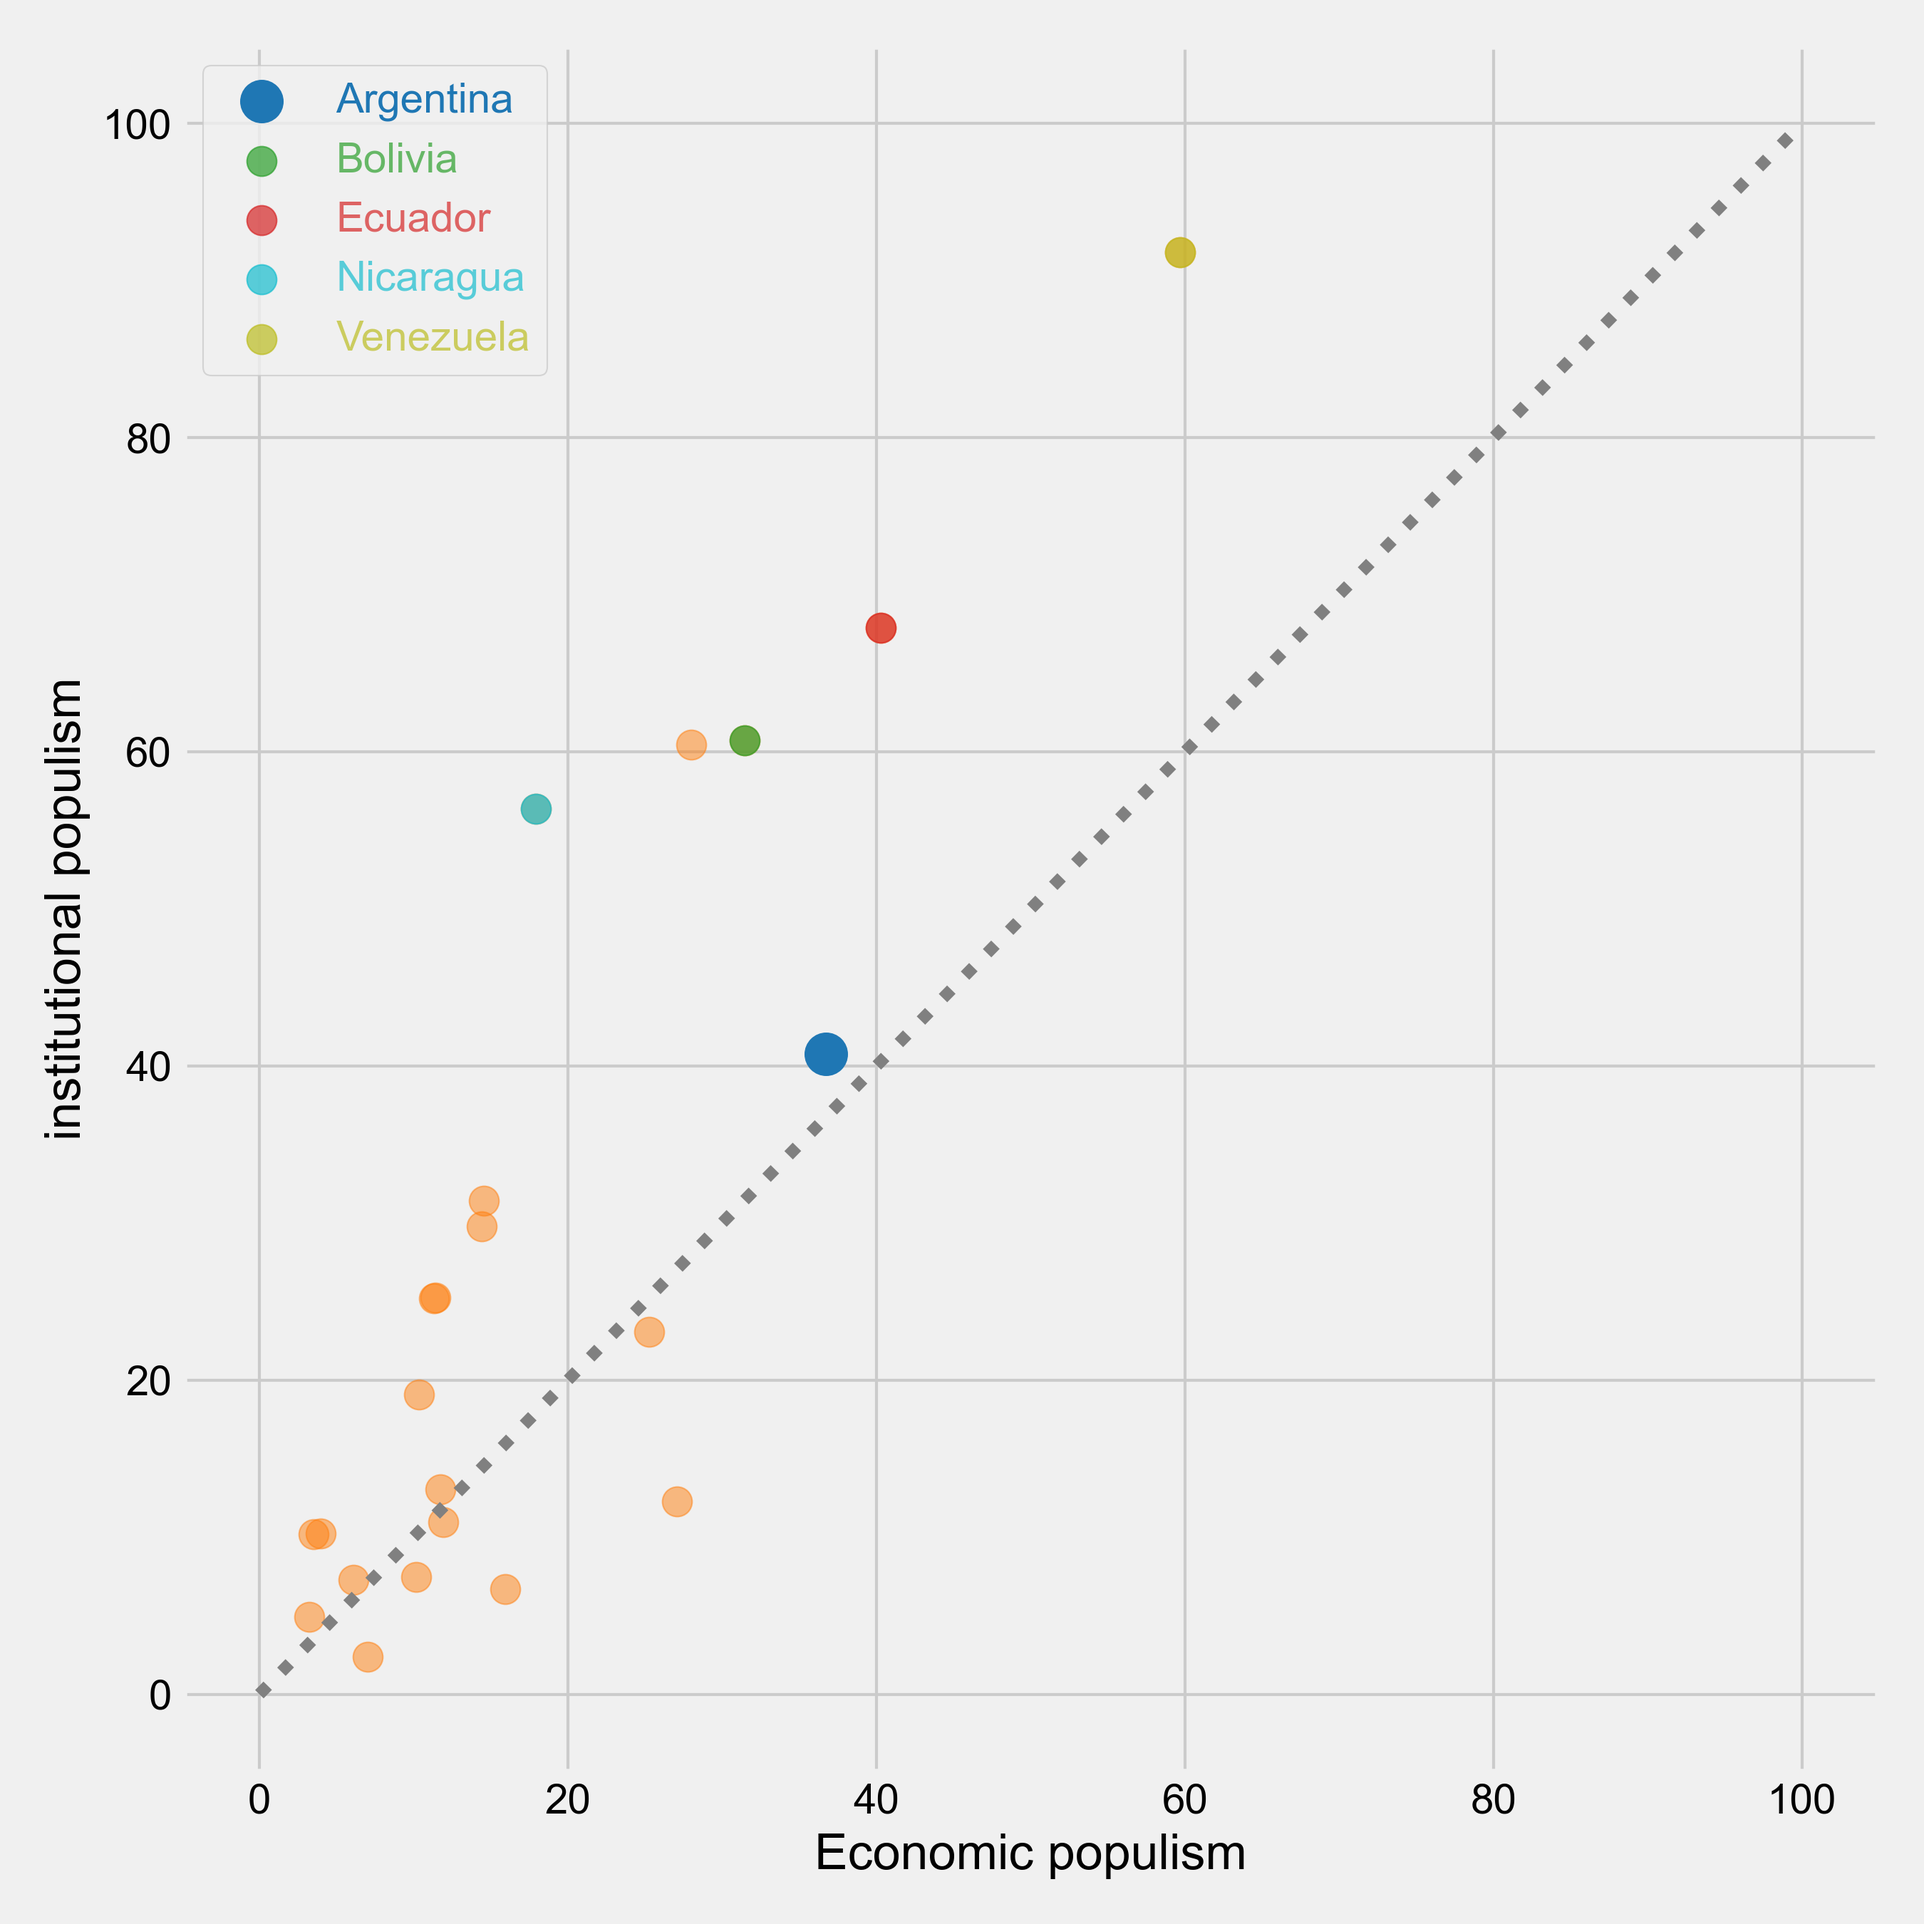
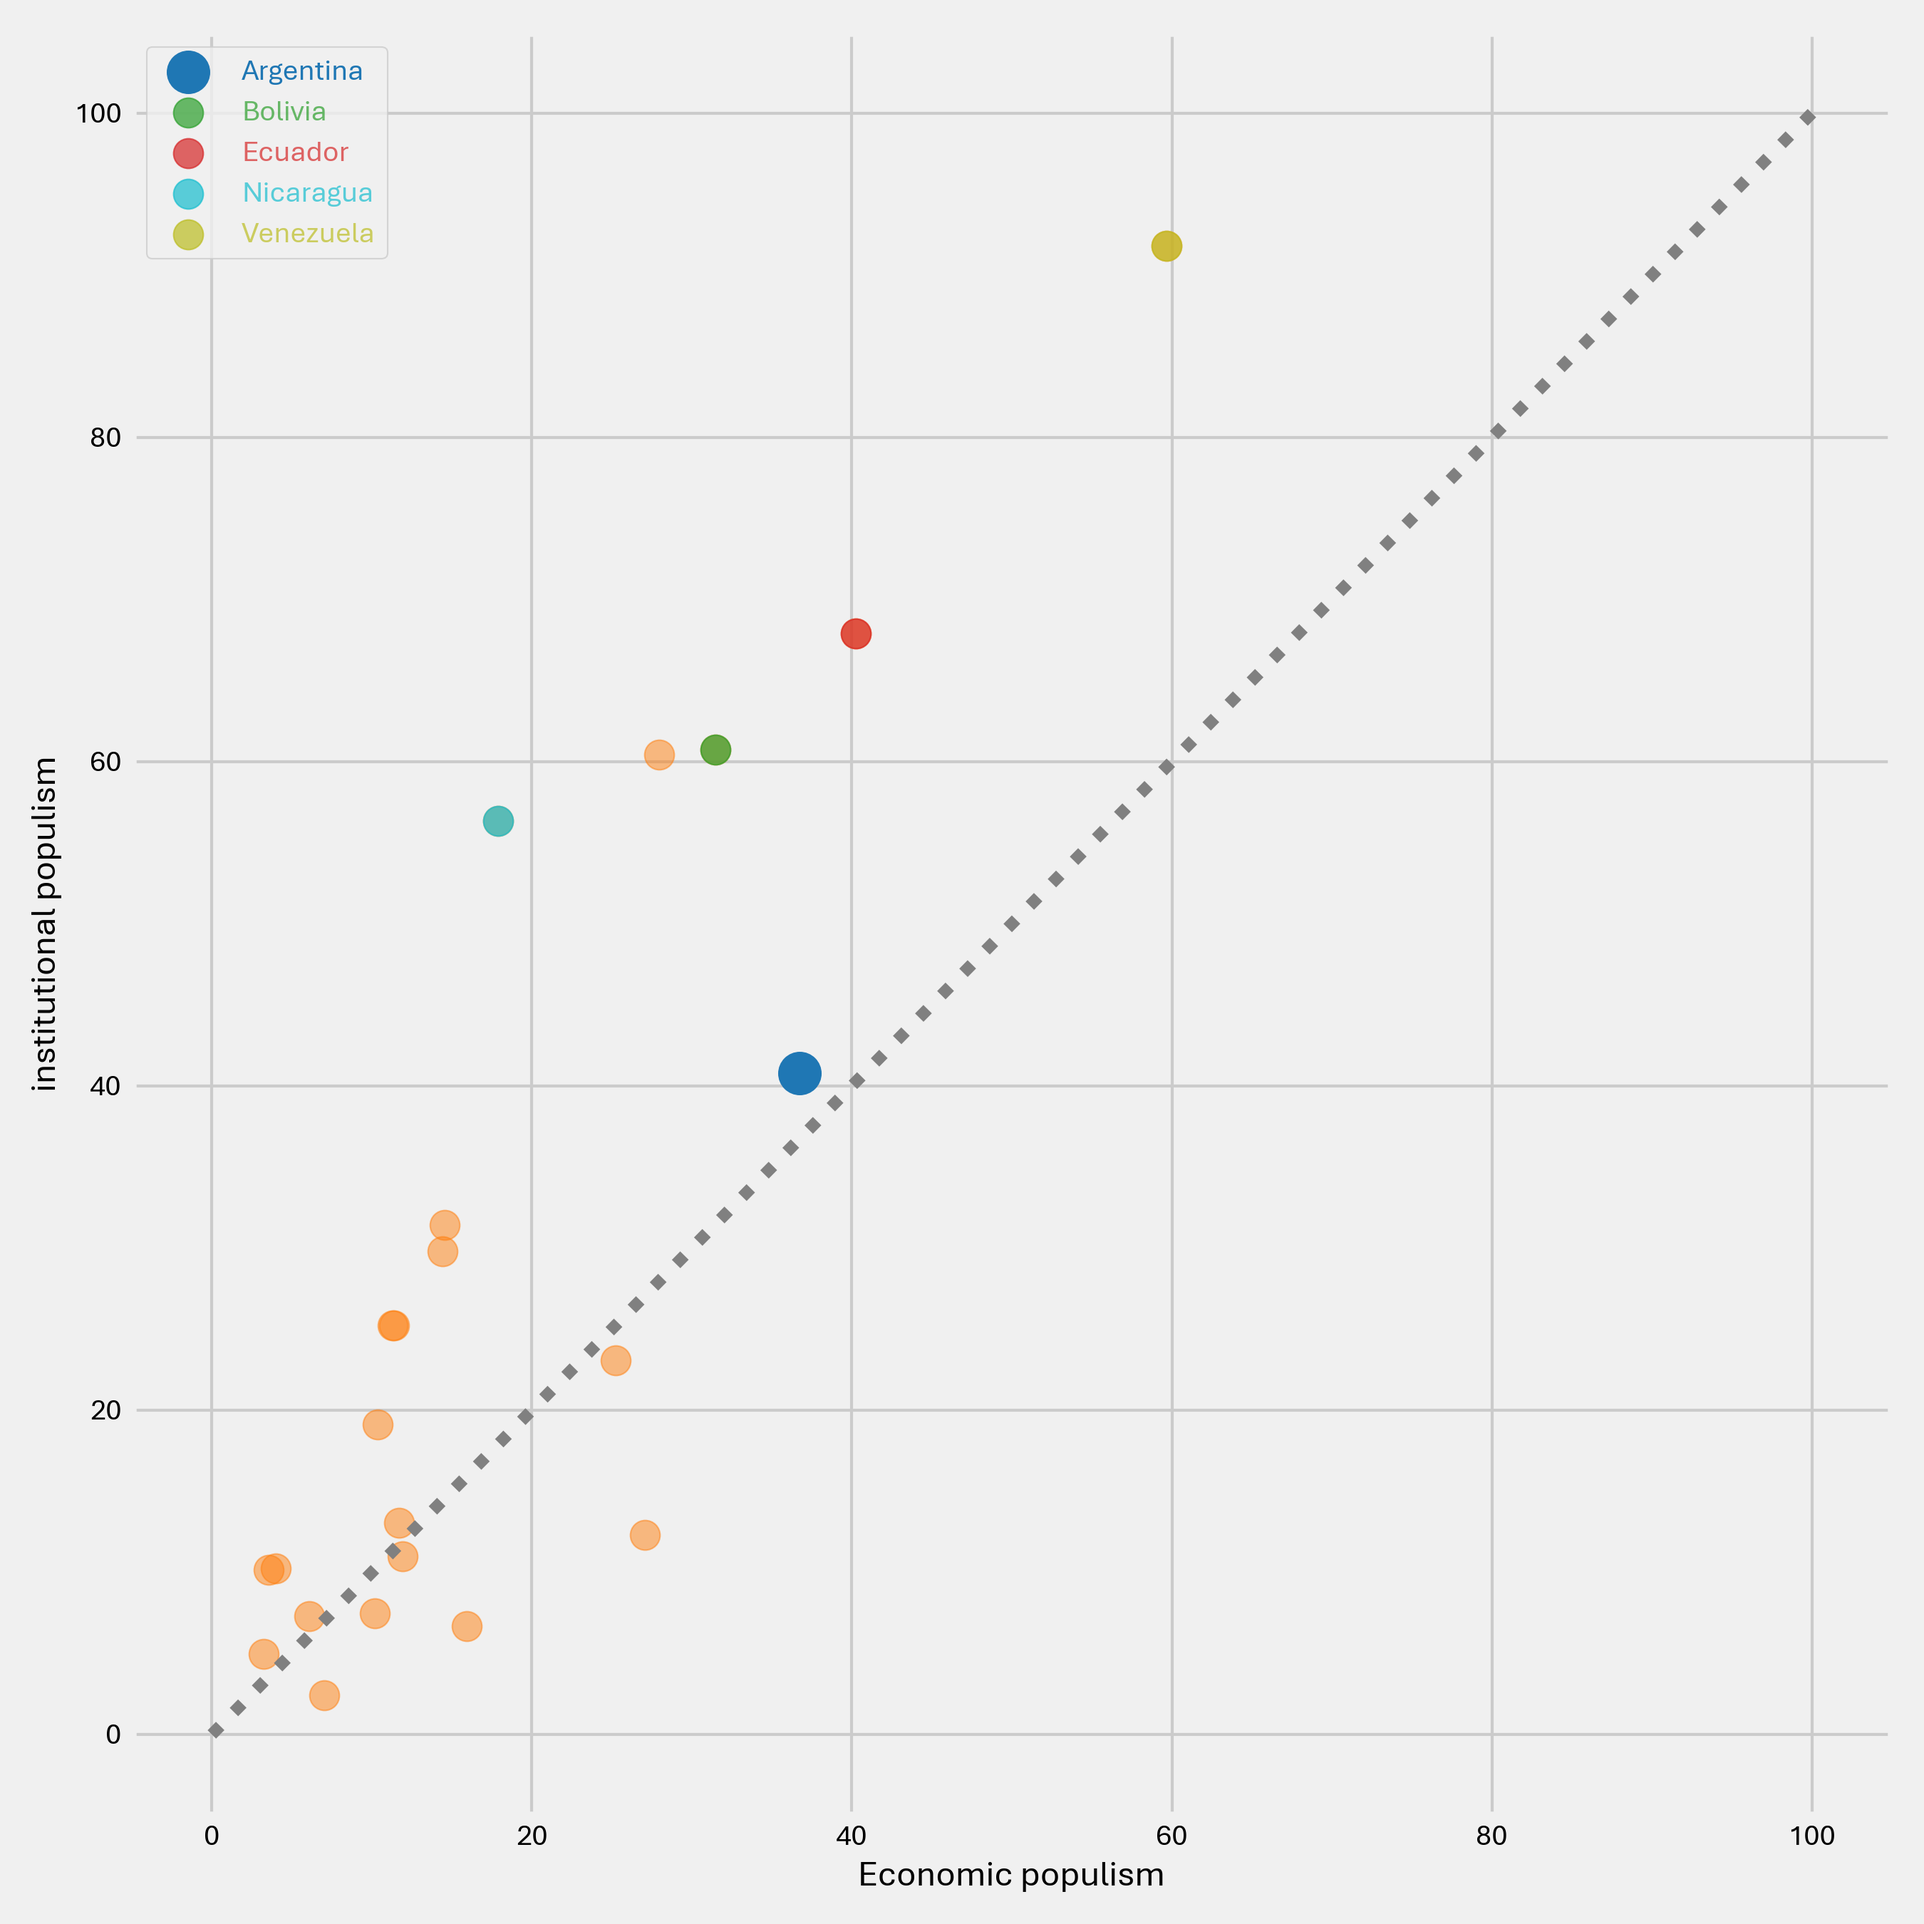
Code clean up.

diff --git a/index_generator.py b/index_generator.py
@@ -385,7 +385,7 @@ INDEX['EP_3'] = EP3
 INDEX['EP_4'] = EP4
 INDEX['EP']   = INDEX['VPARTY'] * (EP1 + EP2 + EP3 + EP4)/4
 
-INDEX['EP_RANK'] = INDEX.groupby('YEAR')['EP'].rank(ascending=False)
+INDEX['EP_RANK']       = INDEX.groupby('YEAR')['EP'].rank(ascending=False)
 INDEX['EP_PERCENTILE'] = INDEX.groupby('YEAR')['EP'].rank(pct=True)
 
 #### Clean up
@@ -448,7 +448,7 @@ extension_2 = '.xlsx'
 extension_3 = '.html' 
 extension_4 = '.dta'
 
-INDEX.to_csv(file_name + extension_1, encoding='utf-8')
+INDEX.to_csv(file_name + extension_1  , encoding='utf-8')
 INDEX.to_excel(file_name + extension_2, index=False)
 INDEX.to_html(file_name + extension_3)
 INDEX.to_stata(file_name + extension_4)
@@ -459,187 +459,10 @@ del replacements
 
 
 # ============================================================================|
-# %% INDEX | PLOTS FOR INITIAL CHECK
-
-#### Load data
-FILE  = "index_2023.xlsx"
-FILE  = pd.ExcelFile(FILE)
-
-INDEX = pd.read_excel(FILE)
-INDEX = INDEX[INDEX['YEAR'] != 2000]  # Year 2001 is missing
-INDEX = INDEX[INDEX['YEAR'] != 2020]  # Year 2020 is missing
-
-countries = INDEX['COUNTRY'].unique()
-region    = INDEX['REGION'].unique()
-years     = INDEX['YEAR'].unique()
-
-#### Plot settings
-print(plt.style.available)
-plt.style.use('seaborn-v0_8-bright')
-
-fig_landscape = (16,9)
-fig_square    = (9, 9)
-
-#### TS: Argentina
-y  = INDEX[INDEX['ISO3']=='ARG']
-y1 = y['IP']
-y2 = y['EP']
-y3 = y['POPULISM']
-t  = y['YEAR']
-
-fig, ax = plt.subplots()
-ax.set_title("Argentina")
-ax.plot(t, y1, label='IP')
-ax.plot(t, y2, label='EP')
-ax.plot(t, y3, label='Populism')
-ax.axvspan(2006, 2015, color='gray', alpha=0.25)
-ax.set_ylim(0, 100)
-plt.legend()
-plt.tight_layout()
-plt.show()
-
-#### TS: Bolivia
-y  = INDEX[INDEX['ISO3']=='BOL']
-y1 = y['IP']
-y2 = y['EP']
-y3 = y['POPULISM']
-t  = y['YEAR']
-
-fig, ax = plt.subplots()
-ax.set_title("Bolivia")
-ax.plot(t, y1, label='IP')
-ax.plot(t, y2, label='EP')
-ax.plot(t, y3, label='Populism')
-ax.axvspan(2006, 2019, color='gray', alpha=0.25)
-ax.set_ylim(0, 100)
-plt.legend()
-plt.tight_layout()
-plt.show()
-
-#### TS: Ecuador
-y  = INDEX[INDEX['ISO3']=='ECU']
-y1 = y['IP']
-y2 = y['EP']
-y3 = y['POPULISM']
-t  = y['YEAR']
-
-fig, ax = plt.subplots()
-ax.set_title("Ecuador")
-ax.plot(t, y1, label='IP')
-ax.plot(t, y2, label='EP')
-ax.plot(t, y3, label='Populism')
-ax.axvspan(2007, 2016, color='gray', alpha=0.25)
-ax.set_ylim(0, 100)
-plt.legend()
-plt.tight_layout()
-plt.show()
-
-#### TS: Nicaragua
-y  = INDEX[INDEX['ISO3']=='NIC']
-y1 = y['IP']
-y2 = y['EP']
-y3 = y['POPULISM']
-t  = y['YEAR']
-
-fig, ax = plt.subplots()
-ax.set_title("Nicaragua")
-ax.plot(t, y1, label='IP')
-ax.plot(t, y2, label='EP')
-ax.plot(t, y3, label='Populism')
-ax.axvspan(2007, 2022, color='gray', alpha=0.25)
-ax.set_ylim(0, 100)
-plt.legend()
-plt.tight_layout()
-plt.show()
-
-#### TS: Venezuela
-y  = INDEX[INDEX['ISO3']=='VEN']
-y1 = y['IP']
-y2 = y['EP']
-y3 = y['POPULISM']
-t  = y['YEAR']
-
-fig, ax = plt.subplots()
-ax.set_title("Venezuela")
-ax.plot(t, y1, label='IP')
-ax.plot(t, y2, label='EP')
-ax.plot(t, y3, label='Populism')
-ax.axvspan(1999, 2020, color='gray', alpha=0.25)
-ax.set_ylim(0, 100)
-plt.legend()
-plt.tight_layout()
-plt.show()
-
-#### TS: Chile
-y  = INDEX[INDEX['ISO3']=='CHL']
-y1 = y['IP']
-y2 = y['EP']
-y3 = y['POPULISM']
-t  = y['YEAR']
-
-fig, ax = plt.subplots()
-ax.set_title("Chile")
-ax.plot(t, y1, label='IP')
-ax.plot(t, y2, label='EP')
-ax.plot(t, y3, label='Populism')
-plt.axvspan(2005, 2009, color='gray', alpha=0.25)
-plt.axvspan(2014, 2017, color='gray', alpha=0.25)
-ax.set_ylim(0, 100)
-plt.legend()
-plt.tight_layout()
-plt.show()
-
-#### TS: Colombia
-y  = INDEX[INDEX['ISO3']=='COL']
-y1 = y['IP']
-y2 = y['EP']
-y3 = y['POPULISM']
-t  = y['YEAR']
-
-fig, ax = plt.subplots()
-ax.set_title("Colombia")
-ax.plot(t, y1, label='IP')
-ax.plot(t, y2, label='EP')
-ax.plot(t, y3, label='Populism')
-ax.set_ylim(0, 100)
-plt.legend()
-plt.tight_layout()
-plt.show()
-
-#### Scatter: By Year
-
-ARG = INDEX[INDEX['ISO3'] == "ARG"]
-BOL = INDEX[INDEX['ISO3'] == "BOL"]
-ECU = INDEX[INDEX['ISO3'] == "ECU"]
-NIC = INDEX[INDEX['ISO3'] == "NIC"]
-VEN = INDEX[INDEX['ISO3'] == "VEN"]
-
-axis_range = [0, 100, 0, 100]
-LABELS=['Argentina', 'Bolivia', 'Ecuador', 'Nicaragua', 'Venezuela']
-TITLE = "Populism transition"
-
-fig, ax = plt.subplots(figsize=fig_square)
-plt.plot([0,100],[0,100], color='gray', ls=':')
-plt.plot(ARG['EP'],ARG['IP'],'o-',markersize=10,color='tab:blue' ,label=LABELS[0])
-plt.plot(BOL['EP'],BOL['IP'],'o-',markersize=10,color='tab:green',label=LABELS[1])
-plt.plot(ECU['EP'],ECU['IP'],'o-',markersize=10,color='tab:red'  ,label=LABELS[2])
-plt.plot(NIC['EP'],NIC['IP'],'o-',markersize=10,color='tab:cyan' ,label=LABELS[3])
-plt.plot(VEN['EP'],VEN['IP'],'o-',markersize=10,color='tab:olive',label=LABELS[4])
-plt.xlabel("Economic populism")
-plt.ylabel("Institutional populism")
-plt.axis_range=axis_range
-plt.tight_layout()
-plt.show()
-
-#### Clean up
-del ax, fig, t, y, y1, y2, y3
-
-
-# ============================================================================|
-# %% SAMPLE CODES
+# %% THE END
 
 """
-#### Rearrange pandas' columns
+#### Sample Code: Rearrange pandas' columns
 import pandas as pd
 
 # Sample DataFrame
@@ -663,7 +486,7 @@ df = df[desired_order]
 print("\nDataFrame with Rearranged Columns:")
 print(df)
 
-#### Ranking
+#### Sample Code: Ranking
 # Rank data within each year group in ascending order with the
 # 'min' tie-breaking method
 df['Rank'] = df.groupby('Year')['Value'].rank(ascending=True, method='min')

diff --git a/visualizations.py b/visualizations.py
@@ -60,12 +60,15 @@ plt.style.use('fivethirtyeight')
 
 
 #### Parameters
+'''
 font_dir = ['C:/Windows/Fonts']
 for font in fm.findSystemFonts(font_dir):
     fm.fontManager.addfont(font)
+'''
 
 available_fonts = sorted([f.name for f in fm.fontManager.ttflist])
-mpl.rcParams["font.family"] = "Arial"
+mpl.rcParams["font.family"] = "Aptos"
+mpl.rcParams["font.size"]   = 12
 mpl.rcParams["figure.dpi"]  = 300
 
 
@@ -87,7 +90,7 @@ fig_square    = (9, 9)
 
 
 #### Clean up
-del available_fonts, font, font_dir, c_palette
+del available_fonts, c_palette
 
 
 # ============================================================================|
@@ -212,7 +215,7 @@ del P, P1, P2, P3
 
 
 # ============================================================================|
-# %% BARS: SCATTER PLOTS
+# %% SCATTER PLOTS
 
 #### By Year
 axis_range = [0, 100, 0, 100]
@@ -280,7 +283,116 @@ plt.show()
 
 
 # ============================================================================|
-# %% BARS: SCATTER PLOTS
+# %% THE ICONIC FIVE: TIME SERIES
+
+
+#### Argentina
+y  = INDEX[INDEX['ISO3']=='ARG']
+y1 = y['IP']
+y2 = y['EP']
+y3 = y['POPULISM']
+t  = y['YEAR']
+
+fig, ax = plt.subplots(figsize=fig_landscape)
+plt.title("Argentina")
+plt.plot(t, y1, label='Institutional opulism', color="tab:blue")
+plt.plot(t, y2, label='Economic populism'    , color="tab:red")
+plt.plot(t, y3, label='Populism index'       , color="black")
+ax.axvspan(2006, 2015, color='gray', alpha=0.25)
+plt.ylim(0, 100)
+plt.xlim(2002, 2020)
+plt.legend()
+plt.tight_layout()
+plt.savefig('visualizations/Iconic5_ARG')
+plt.show()
+
+#### Bolivia
+y  = INDEX[INDEX['ISO3']=='BOL']
+y1 = y['IP']
+y2 = y['EP']
+y3 = y['POPULISM']
+t  = y['YEAR']
+
+fig, ax = plt.subplots(figsize=fig_landscape)
+plt.title("Bolivia")
+plt.plot(t, y1, label='Institutional opulism', color="tab:blue")
+plt.plot(t, y2, label='Economic populism'    , color="tab:red")
+plt.plot(t, y3, label='Populism index'       , color="black")
+ax.axvspan(2006, 2019, color='gray', alpha=0.25)
+plt.ylim(0, 100)
+plt.xlim(2002, 2020)
+plt.legend()
+plt.tight_layout()
+plt.savefig('visualizations/Iconic5_BOL')
+plt.show()
+
+#### Ecuador
+y  = INDEX[INDEX['ISO3']=='ECU']
+y1 = y['IP']
+y2 = y['EP']
+y3 = y['POPULISM']
+t  = y['YEAR']
+
+fig, ax = plt.subplots(figsize=fig_landscape)
+plt.title("Ecuador")
+plt.plot(t, y1, label='Institutional opulism', color="tab:blue")
+plt.plot(t, y2, label='Economic populism'    , color="tab:red")
+plt.plot(t, y3, label='Populism index'       , color="black")
+ax.axvspan(2007, 2016, color='gray', alpha=0.25)
+plt.ylim(0, 100)
+plt.xlim(2002, 2020)
+plt.legend()
+plt.tight_layout()
+plt.savefig('visualizations/Iconic5_ECU')
+plt.show()
+
+#### Nicaragua
+y  = INDEX[INDEX['ISO3']=='NIC']
+y1 = y['IP']
+y2 = y['EP']
+y3 = y['POPULISM']
+t  = y['YEAR']
+
+fig, ax = plt.subplots(figsize=fig_landscape)
+plt.title("Nicaragua")
+plt.plot(t, y1, label='Institutional opulism', color="tab:blue")
+plt.plot(t, y2, label='Economic populism'    , color="tab:red")
+plt.plot(t, y3, label='Populism index'       , color="black")
+ax.axvspan(2007, 2022, color='gray', alpha=0.25)
+plt.ylim(0, 100)
+plt.xlim(2002, 2020)
+plt.legend()
+plt.tight_layout()
+plt.savefig('visualizations/Iconic5_NIC')
+plt.show()
+
+#### Venezuela
+y  = INDEX[INDEX['ISO3']=='VEN']
+y1 = y['IP']
+y2 = y['EP']
+y3 = y['POPULISM']
+t  = y['YEAR']
+
+fig, ax = plt.subplots(figsize=fig_landscape)
+plt.title("Venezuela")
+plt.plot(t, y1, label='Institutional opulism', color="tab:blue")
+plt.plot(t, y2, label='Economic populism'    , color="tab:red")
+plt.plot(t, y3, label='Populism index'       , color="black")
+ax.axvspan(1999, 2020, color='gray', alpha=0.25)
+plt.ylim(0, 100)
+plt.xlim(2002, 2020)
+plt.legend()
+plt.tight_layout()
+plt.savefig('visualizations/Iconic5_VEN')
+plt.show()
+
+
+#### Clean up
+del ax, fig, t, y, y1, y2, y3
+
+
+# ============================================================================|
+# %% THE ICONIC FIVE: SCATTER PLOTS
 ARG = INDEX[INDEX['YEAR'].between(2007, 2015)]
 BOL = INDEX[INDEX['YEAR'].between(2006, 2019)]
 ECU = INDEX[INDEX['YEAR'].between(2007, 2017)]
@@ -431,3 +543,6 @@ del ECU_A, ECU_B, ECU_E, ECU_N, ECU_V
 del NIC_A, NIC_B, NIC_E, NIC_N, NIC_V
 del VEN_A, VEN_B, VEN_E, VEN_N, VEN_V
 del axis_range, TITLE, fig_landscape, fig_square
+
+# ============================================================================|
+# %% THE END
